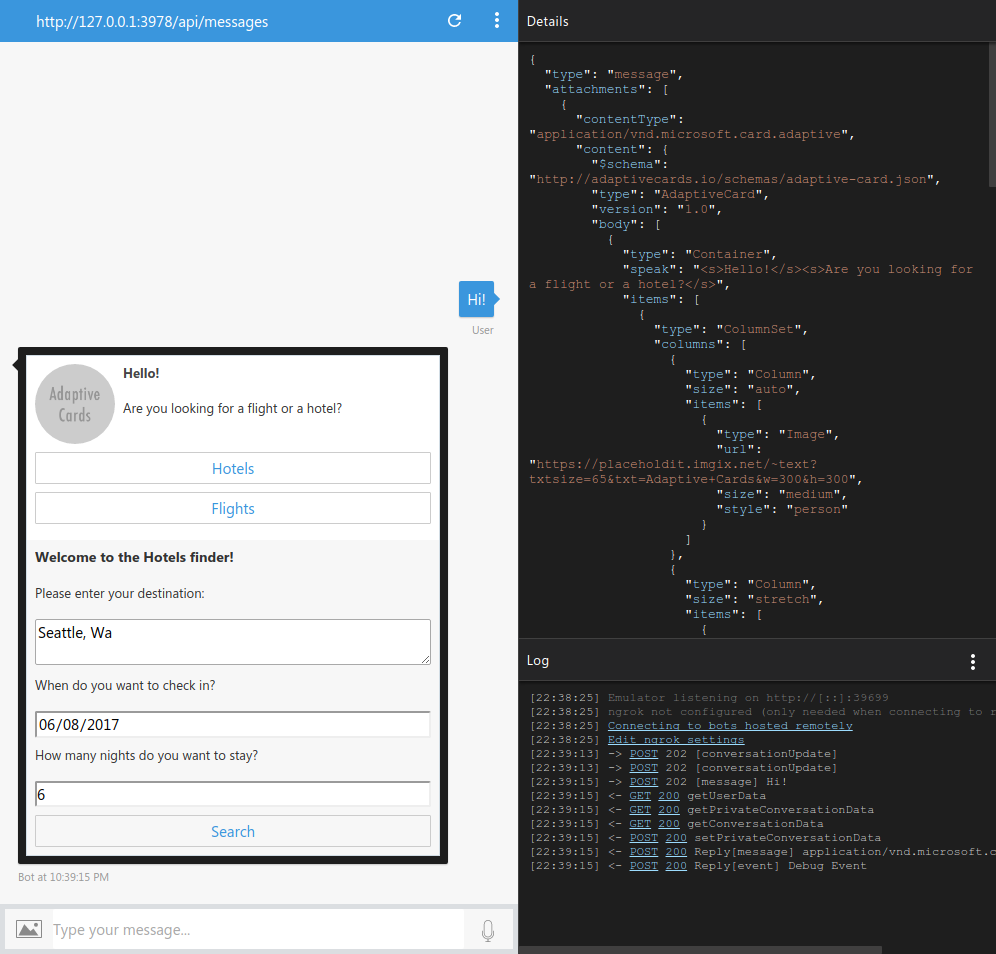
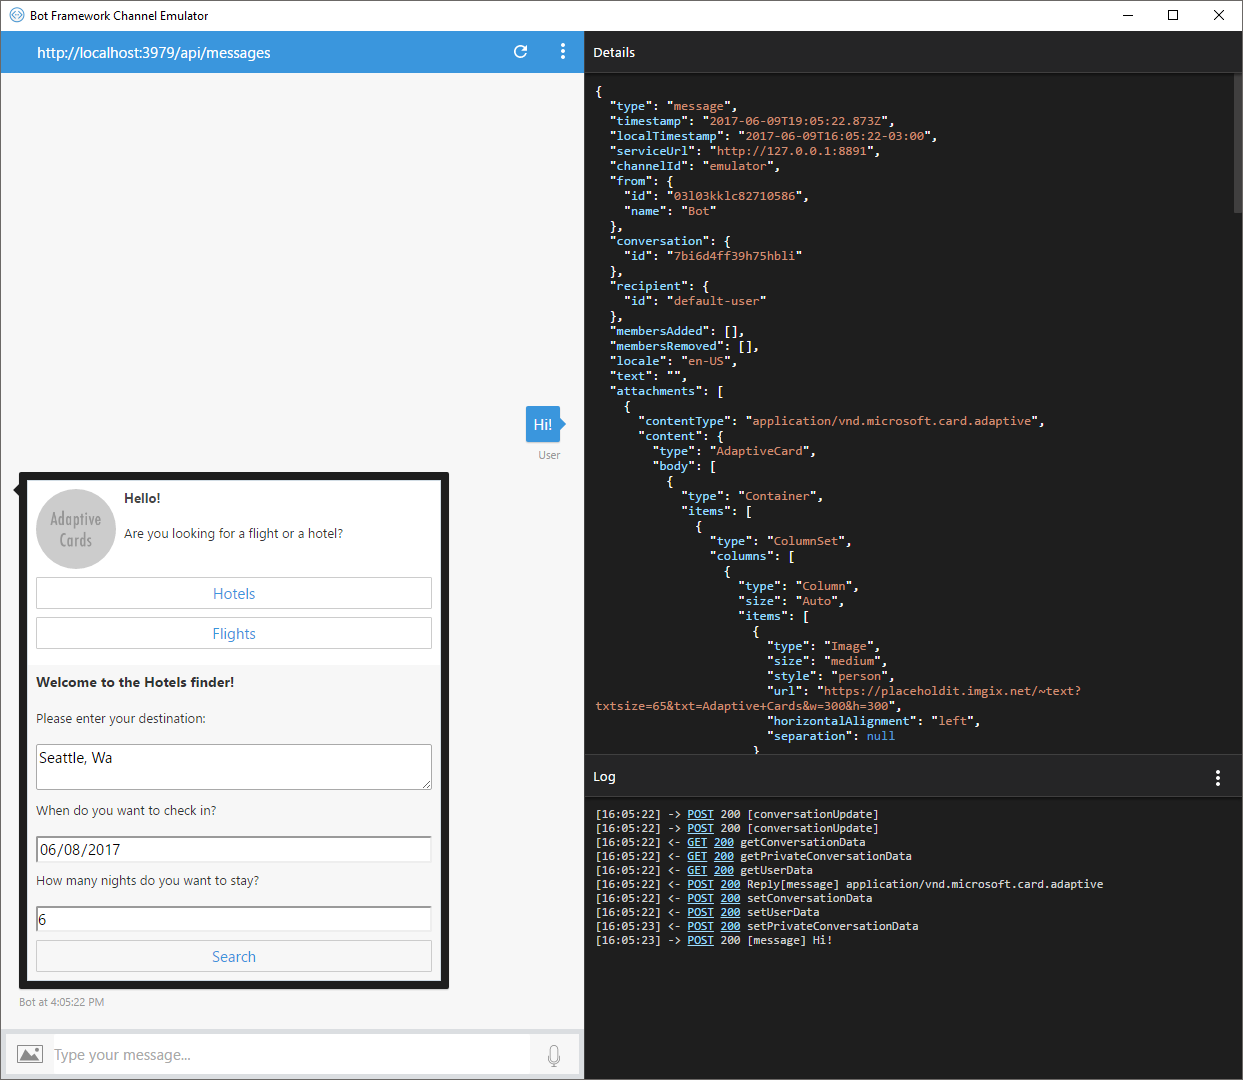
AdaptiveCards Sample README

diff --git a/CSharp/cards-AdaptiveCards/Dialogs/RootDialog.cs b/CSharp/cards-AdaptiveCards/Dialogs/RootDialog.cs
@@ -31,13 +31,16 @@
             {
                 // Got an Action Submit
                 dynamic value = message.Value;
-                switch(value.Type.ToString())
+                string submitType = value.Type.ToString();
+                switch (submitType)
                 {
                     case "HotelSearch":
                         HotelsQuery query;
                         try
                         {
                             query = HotelsQuery.Parse(value);
+
+                            // Trigger validation using Data Annotations attributes from the HotelsQuery model
                             List<ValidationResult> results = new List<ValidationResult>();
                             bool valid = Validator.TryValidateObject(query, new ValidationContext(query, null, null), results, true);
                             if (!valid)

diff --git a/CSharp/cards-AdaptiveCards/README.md b/CSharp/cards-AdaptiveCards/README.md
@@ -17,24 +17,88 @@ The minimum prerequisites to run this sample are:
 
 [Adaptive Cards](http://adaptivecards.io/) are an open card exchange format that enables developers to exchange UI content in a common and consistent way. The Bot Framework has the ability  to use this type of cards and provide a richer interaction experience.
 
-The Adaptive Card can contain any combination of text, speech, images, buttons, and input fields. Adaptive Cards are created using the JSON format specified in Adaptive Cards, which gives you full control over card content and format.
+The Adaptive Card can contain any combination of text, speech, images, buttons, and input fields. Adaptive Cards are created using the JSON format specified in Adaptive Cards schema, which gives you full control over card content and format.
+
+For .NET, there is [Microsoft.AdaptiveCards NuGet](https://www.nuget.org/packages/Microsoft.AdaptiveCards/) that implements classes for building these cards and handles the serialization, so you don't have to hustle with JSON and you get Intellisense from Visual Studio.
 
 The aesthetics of the card are adapted to the channel's look and feel, making it feel native to the app and familiar to the user. You can use the [Adaptive Cards' Visualizer](http://adaptivecards.io/visualizer) to see how your card renders on different channels.
 
 > Note: At the time of writing this sample, the Adaptive Cards support on the different channels is limited. This sample works properly on the Emulator and WebChat channel. See [more information](https://github.com/Microsoft/AdaptiveCards/issues/367) about channel support.
 
-See how the sample composes a [welcome card](app.js#L30-L156) along with search options:
+See how the sample composes a [welcome card](Dialogs/RootDialog.cs#L86-L161) along with search options:
 
 ````C#
+AdaptiveCard card = new AdaptiveCard()
+{
+    Body = new List<CardElement>()
+    {
+        new Container()
+        {
+            Speak = "<s>Hello!</s><s>Are you looking for a flight or a hotel?</s>",
+            Items = new List<CardElement>()
+            {
+                new ColumnSet()
+                {
+                    Columns = new List<Column>()
+                    {
+                        new Column()
+                        {
+                            Size = ColumnSize.Auto,
+                            Items = new List<CardElement>()
+                            {
+                                new Image()
+                                {
+                                    Url = "https://placeholdit.imgix.net/~text?txtsize=65&txt=Adaptive+Cards&w=300&h=300",
+                                    Size = ImageSize.Medium,
+                                    Style = ImageStyle.Person
+                                }
+                            }
+                        },
+                        new Column()
+                        {
+                            Size = ColumnSize.Stretch,
+                            Items = new List<CardElement>()
+                            {
+                                new TextBlock()
+                                {
+                                    Text =  "Hello!",
+                                    Weight = TextWeight.Bolder,
+                                    IsSubtle = true
+                                },
+                                new TextBlock()
+                                {
+                                    Text = "Are you looking for a flight or a hotel?",
+                                    Wrap = true
+                                }
+                            }
+                        }
+                    }
+                }
+            }
+        }
+    },
+    // Buttons
+    Actions = new List<ActionBase>() { /* */ }
+};
 ````
 
 The previous code will generate a card similar to this one:
 
 ![Welcome Card](images/welcome-card.png)
 
-Adaptive Cards are created using JSON, like the one depicted above, and sent as a message attachment:
+Adaptive Cards are created using JSON, but with the [Microsoft.AdaptiveCards NuGet](https://www.nuget.org/packages/Microsoft.AdaptiveCards/) you can create them by composing card objects. You then attach these AdaptiveCard objects to a message:
 
 ````C#
+Attachment attachment = new Attachment()
+{
+    ContentType = AdaptiveCard.ContentType,
+    Content = card
+};
+
+var reply = context.MakeMessage();
+reply.Attachments.Add(attachment);
+
+await context.PostAsync(reply, CancellationToken.None);
 ````
 
 Adaptive Cards contain many elements that allow to exchange UI content in a common and consistent way. Some of these elements are:
@@ -93,21 +157,96 @@ You can visit the [Adaptive Cards Schema Explorer](http://adaptivecards.io/explo
 #### Creating an inline Adaptive Card
 
 A card may offer the user multiple options to continue. Each option can be offered as a button that, once clicked, expands into a new card within the existing one. This is accomplised using a *ShowCard Action*.
-See app.js [Flight's option](app.js#L138-L153) for a simple card and [Hotel's option](app.js#L80-L137) for a complex one.
-These are defined within the `actions` element of the main card. See below how the `type` of each action is defined as `Action.ShowCard` and the `card` property contains a new Adaptive Card.
+See the [Flight's option](Dialogs/RootDialog.cs#L143-L159) for a simple card and the [Hotel's option](Dialogs/RootDialog.cs#L137-L142) for a complex one.
+These are defined within the `Actions` element of the main card as `ShowCardAction` objects. These objects then host the child card in their `Card` property:
 
 ````C#
+AdaptiveCard card = new AdaptiveCard()
+{
+    Body = new List<CardElement>() { /* */ },
+    // Buttons
+    Actions = new List<ActionBase>() {
+        new ShowCardAction()
+        {
+            Title = "Hotels",
+            Speak = "<s>Hotels</s>",
+            Card = GetHotelSearchCard()
+        },
+        new ShowCardAction()
+        {
+            Title = "Flights",
+            Speak = "<s>Flights</s>",
+            Card = new AdaptiveCard()
+            {
+                Body = new List<CardElement>()
+                {
+                    new TextBlock()
+                    {
+                        Text = "Flights is not implemented =(",
+                        Speak = "<s>Flights is not implemented</s>",
+                        Weight = TextWeight.Bolder
+                    }
+                }
+            }
+        }
+    }
+};
 ````
 
 #### Collecting and handling input from the user
 
 Adaptive Cards can include input controls for gathering information from the user that is viewing the card.
 
-At the time of writing this sample, the Adaptive Cards support for input controls is: [Text](http://adaptivecards.io/explorer/#InputText), [Date](http://adaptivecards.io/explorer/#InputDate), [Time](http://adaptivecards.io/explorer/#InputTime), [Number](http://adaptivecards.io/explorer/#InputNumber) and for option selection there is the [Toggle](http://adaptivecards.io/explorer/#InputToggle) and [ChoiceSet](http://adaptivecards.io/explorer/#InputChoiceSet).
+At the time of writing this sample, the Adaptive Cards support for input controls is: [Text](http://adaptivecards.io/explorer/#InputText), [Date](http://adaptivecards.io/explorer/#InputDate), [Time](http://adaptivecards.io/explorer/#InputTime), [Number](http://adaptivecards.io/explorer/#InputNumber) and for selecting options there are the [Toggle](http://adaptivecards.io/explorer/#InputToggle) and [ChoiceSet](http://adaptivecards.io/explorer/#InputChoiceSet).
 
-See app.js hotel's search form for a simple sample:
+See [hotel's search form](Dialogs/RootDialog.cs#L191-L235) for a simple sample:
 
 ````C#
+new AdaptiveCard()
+{
+    Body = new List<CardElement>()
+    {
+            // Hotels Search form
+            new TextBlock()
+            {
+                Text = "Welcome to the Hotels finder!",
+                Speak = "<s>Welcome to the Hotels finder!</s>",
+                Weight = TextWeight.Bolder,
+                Size = TextSize.Large
+            },
+            new TextBlock() { Text = "Please enter your destination:" },
+            new TextInput()
+            {
+                Id = "Destination",
+                Speak = "<s>Please enter your destination</s>",
+                Placeholder = "Miami, Florida",
+                Style = TextInputStyle.Text
+            },
+            new TextBlock() { Text = "When do you want to check in?" },
+            new DateInput()
+            {
+                Id = "Checkin",
+                Speak = "<s>When do you want to check in?</s>"
+            },
+            new TextBlock() { Text = "How many nights do you want to stay?" },
+            new NumberInput()
+            {
+                Id = "Nights",
+                Min = 1,
+                Max = 60,
+                Speak = "<s>How many nights do you want to stay?</s>"
+            }
+    },
+    Actions = new List<ActionBase>()
+    {
+        new SubmitAction()
+        {
+            Title = "Search",
+            Speak = "<s>Search</s>",
+            DataJson = "{ \"Type\": \"HotelSearch\" }"
+        }
+    }
+};
 ````
 
 The above card will generate a card similar to this one:
@@ -124,25 +263,93 @@ Submitting the information can be be done in two possible ways:
 
   Action.Submit gathers up input fields, merges with optional data field and generates event to client asking for data to be submitted. The Bot Framework will send an activity through the messaging medium to the bot. This is the method used in the sample.
 
-When using the **Submit** method, the Bot Framework will handle the submission and your bot will receive a new message with its `value` field filled with the form data as a JSON object.
+When using the **Submit** method, the Bot Framework will handle the submission and your bot will receive a new `IMessageActivity` with its `Value` property filled with the form data as a dynamic object.
 
 ````C#
+public virtual async Task MessageReceivedAsync(IDialogContext context, IAwaitable<IMessageActivity> result)
+{
+    var message = await result;
+
+    if (message.Value != null)
+    {
+        // Got an Action Submit
+        dynamic value = message.Value;
+        string submitType = value.Type.ToString();
+        switch (submitType)
+        {
+            case "HotelSearch":
+                /* */
+                return;
+
+            case "HotelSelection":
+                /* */
+                return;
+        }
+    }
+
+    // ...
+}
 ````
 
 ![Search Form Submission](images/search-form-submit.png)
 
-You'll note there is also a `type` field with the `hotelSearch` value. It is used to later identify the originating submit action. When submitting, the Adaptive Card combines the form values to [Submit Action's `data` property](http://adaptivecards.io/explorer/#ActionSubmit).
+You'll note in the `SumitAction` that there is a `DataJson` property with a JSON object as `{ "Type": "HotelSearch }`. The `Type` attribute is later used to identify the originating submit action. When submitting, the Adaptive Card combines the form values to the [Submit Action's `DataJson` property](http://adaptivecards.io/explorer/#ActionSubmit).
 
-Once received the search form parameters, [validation is triggered](app.js#L182), and once it passes, the [`hotels-search`](hotels-search.js) dialog is called with the search parameters as the dialog's argument:
+Once received the search form parameters, [validation is triggered](Dialogs/RootDialog.cs#L43-L52), and once it passes, the [`HotelsDialog`](Dialogs/HotelsDialog.cs) is invoked with the same `IMessageActivity` object containing the search parameters:
 
 ````C#
+await context.Forward(new HotelsDialog(), this.ResumeAfterOptionDialog, message, CancellationToken.None);
 ````
 
 #### Displaying information with ColumnSet
 
-For displaying the hotel search results the sample uses ColumnSet and Columns to format into rows and columns. See how the [`hotels-search` dialog](hotels-search.js#L24-L43) makes use of these elements to create the layout depicted below:
+For displaying the hotel search results, the sample uses `ColumnSet` and `Columns` to format them into rows and columns. See how the [`HotelsDialog`](Dialogs/HotelsDialog.cs#L49-L59) makes use of these elements to create the layout depicted below:
 
 ````C#
+// Hotels in rows of three
+var rows = Split(hotels, 3)
+    .Select(group => new ColumnSet()
+    {
+        Columns = new List<Column>(group.Select(AsHotelItem))
+    });
+
+var card = new AdaptiveCard()
+{
+    Body = intro.Union(rows).ToList()
+};
+
+// ...
+
+private Column AsHotelItem(Hotel hotel)
+{
+    var submitActionData = JObject.Parse("{ \"Type\": \"HotelSelection\" }");
+    submitActionData.Merge(JObject.FromObject(hotel));
+
+    return new Column()
+    {
+        Size = "20",
+        Items = new List<CardElement>()
+        {
+            new TextBlock()
+            {
+                Text = hotel.Name,
+                Speak = $"<s>{hotel.Name}</s>",
+                HorizontalAlignment = HorizontalAlignment.Center,
+                Wrap = false,
+                Weight = TextWeight.Bolder
+            },
+            new Image()
+            {
+                Size = ImageSize.Auto,
+                Url = hotel.Image
+            }
+        },
+        SelectAction = new SubmitAction()
+        {
+            DataJson = submitActionData.ToString()
+        }
+    };
+}
 ````
 
 ![Search Results Layout](images/search-results-layout.png)
@@ -158,9 +365,12 @@ You will see the following in the Bot Framework Emulator when opening and runnin
 ### More Information
 
 To get more information about how to get started in Bot Builder for Node and Attachments please review the following resources:
+* [Bot Builder for .NET](https://docs.microsoft.com/en-us/bot-framework/dotnet/)
+* [Microsoft.AdaptiveCards NuGet](https://www.nuget.org/packages/Microsoft.AdaptiveCards/)
 * [Adaptive Cards](http://adaptivecards.io/)
 * [Adaptive Cards Visualizer](http://adaptivecards.io/visualizer/)
 * [Adaptive Cards Schema Explorer](http://adaptivecards.io/explorer/)
+* [Send an Adaptive Card](https://docs.microsoft.com/en-us/bot-framework/dotnet/bot-builder-dotnet-add-rich-card-attachments#a-idadaptive-carda-add-an-adaptive-card-to-a-message)
 
 > **Limitations**
 > The functionality provided in this sample only works with WebChat and the Emulator. Other channels have limited functionality as described in the following [link](https://github.com/Microsoft/AdaptiveCards/issues/367).
